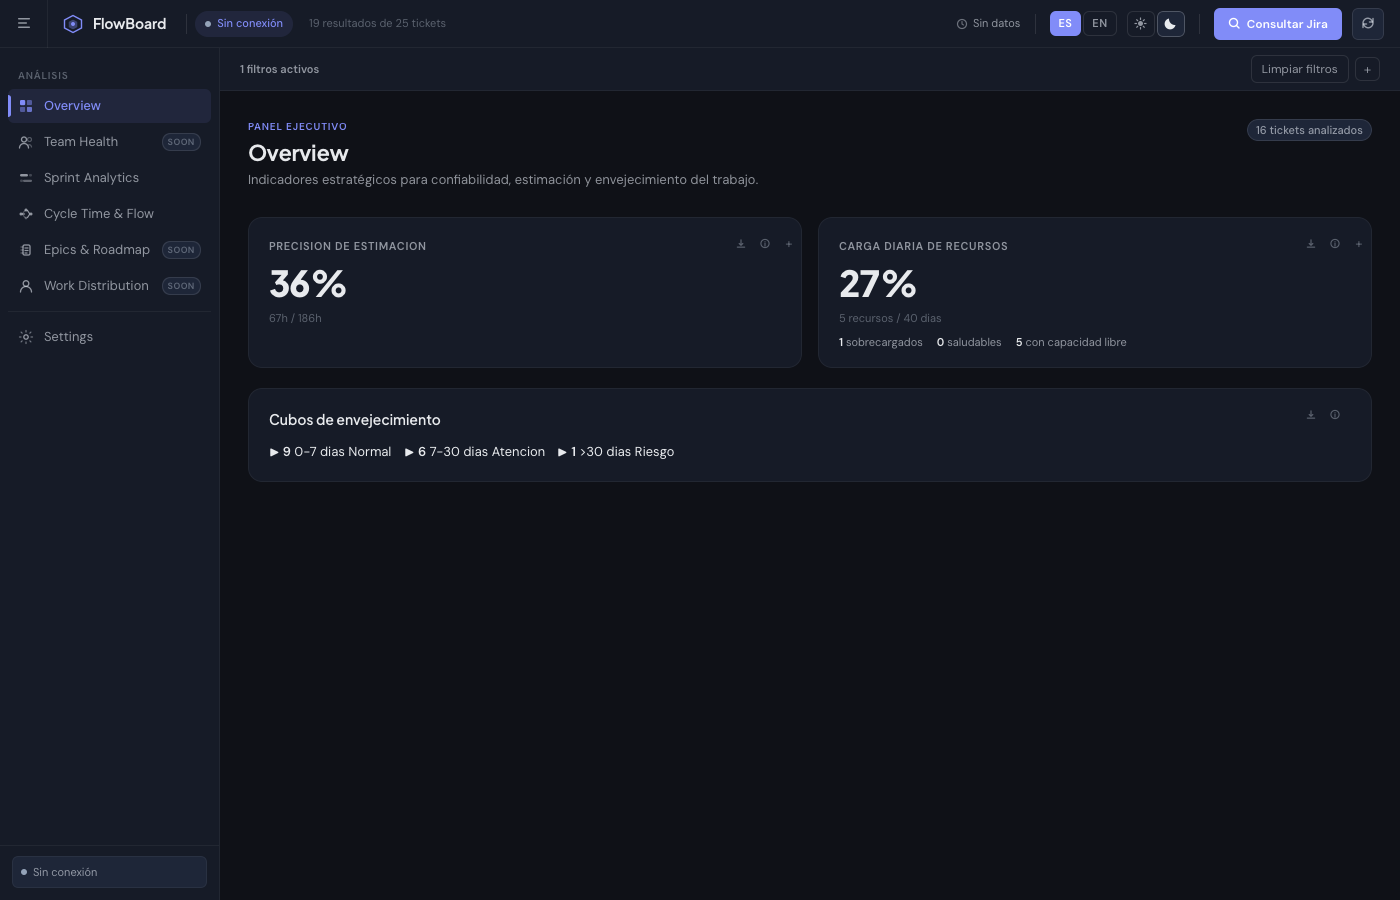
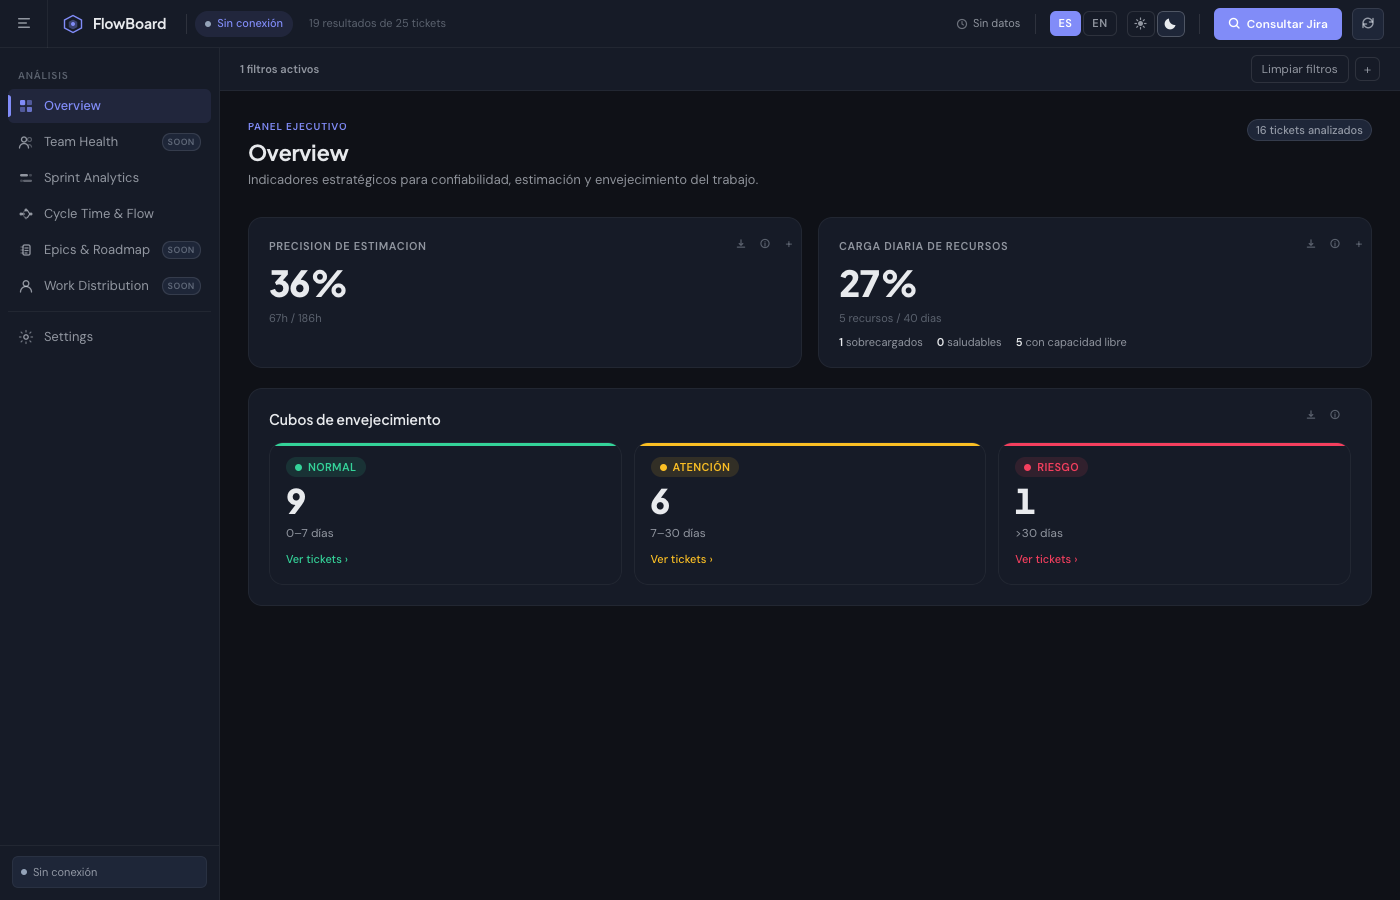
Rediseñar cubos de envejecimiento como tarjetas por severidad
Antes eran <details> sin estilo (triángulos por defecto en línea).
Ahora son tarjetas con color por severidad y lista expandible.

- app.js: cada bucket lleva severity/period/tag (label se conserva para
  IDs de estado, export y aria); render como tarjeta con número grande,
  etiqueta de severidad y CTA "Ver tickets"; textos bilingües
- styles.css: tarjetas con barra de color superior (verde Normal /
  ámbar Atención / rojo Riesgo), tag con punto, contador grande, chevron
  que rota al abrir, paginador estilizado
- issue-detail-item: layout de dos líneas (ticket + título / responsable)
  con días-abierto alineado a la derecha
- Capturas del README regeneradas

diff --git a/styles.css b/styles.css
@@ -1221,12 +1221,166 @@ html.sidebar-collapsed .jira-conn-label { opacity: 0; }
   margin-top: 3px;
 }
 
-/* Aging buckets */
+/* Aging buckets — tarjetas con color por severidad */
 .bucket-grid {
-  display: flex;
-  flex-wrap: wrap;
+  display: grid;
+  grid-template-columns: repeat(auto-fit, minmax(180px, 1fr));
   gap: 12px;
   margin-top: 12px;
+  align-items: start;
+}
+
+.bucket {
+  --bucket-color: var(--text-secondary);
+  --bucket-bg: var(--surface-overlay);
+  position: relative;
+  background: var(--surface-raised);
+  border: 1px solid var(--border-subtle);
+  border-radius: var(--r-lg);
+  overflow: hidden;
+  transition: border-color 120ms, box-shadow 120ms;
+}
+.bucket::before {
+  content: "";
+  position: absolute;
+  top: 0;
+  left: 0;
+  right: 0;
+  height: 3px;
+  background: var(--bucket-color);
+}
+.bucket:hover { border-color: var(--border-default); box-shadow: var(--shadow-xs); }
+.bucket[open] { border-color: color-mix(in srgb, var(--bucket-color) 40%, var(--border-default)); }
+
+.bucket-normal { --bucket-color: var(--data-positive); --bucket-bg: var(--data-positive-bg); }
+.bucket-warning { --bucket-color: var(--data-warning);  --bucket-bg: var(--data-warning-bg); }
+.bucket-risk    { --bucket-color: var(--data-critical); --bucket-bg: var(--data-critical-bg); }
+
+.bucket > summary {
+  list-style: none;
+  cursor: pointer;
+  padding: 14px 16px 16px;
+  display: flex;
+  flex-direction: column;
+  gap: 6px;
+}
+.bucket > summary::-webkit-details-marker { display: none; }
+.bucket > summary:focus-visible { outline: 2px solid var(--focus); outline-offset: -2px; }
+
+.bucket-tag {
+  display: inline-flex;
+  align-items: center;
+  gap: 6px;
+  align-self: flex-start;
+  padding: 2px 9px;
+  border-radius: var(--r-pill);
+  background: var(--bucket-bg);
+  color: var(--bucket-color);
+  font-size: 11px;
+  font-weight: 600;
+  text-transform: uppercase;
+  letter-spacing: 0.03em;
+}
+.bucket-dot { width: 7px; height: 7px; border-radius: 50%; background: var(--bucket-color); }
+
+.bucket-count {
+  font-family: "Plus Jakarta Sans", sans-serif;
+  font-size: 34px;
+  font-weight: 800;
+  line-height: 1;
+  color: var(--text-primary);
+  font-variant-numeric: tabular-nums;
+}
+.bucket-period { font-size: 12px; color: var(--text-secondary); }
+
+.bucket-cta {
+  display: inline-flex;
+  align-items: center;
+  gap: 3px;
+  margin-top: 4px;
+  font-size: 11px;
+  font-weight: 500;
+  color: var(--bucket-color);
+}
+.bucket-cta i { font-style: normal; transition: transform 150ms; }
+.bucket[open] .bucket-cta i { transform: rotate(90deg); }
+
+.bucket-detail {
+  padding: 4px 12px 12px;
+  border-top: 1px solid var(--border-subtle);
+  background: var(--canvas);
+}
+
+.bucket-pager {
+  display: flex;
+  align-items: center;
+  justify-content: space-between;
+  gap: 10px;
+  padding: 8px 4px 2px;
+  font-size: 11px;
+  color: var(--text-tertiary);
+}
+.bucket-pager-actions { display: inline-flex; align-items: center; gap: 8px; }
+.bucket-pager-actions strong { color: var(--text-secondary); font-variant-numeric: tabular-nums; }
+.bucket-page-button {
+  padding: 3px 10px;
+  background: transparent;
+  border: 1px solid var(--border-default);
+  border-radius: var(--r-sm);
+  font-size: 11px;
+  color: var(--text-secondary);
+  cursor: pointer;
+  transition: all 100ms;
+}
+.bucket-page-button:hover:not(:disabled) { border-color: var(--brand-muted); color: var(--brand); }
+.bucket-page-button:disabled { opacity: 0.4; cursor: default; }
+
+/* Item de ticket dentro del detalle del cubo */
+.issue-detail-item {
+  display: grid;
+  grid-template-columns: minmax(0, 1fr) auto;
+  column-gap: 10px;
+  row-gap: 1px;
+  padding: 7px 4px;
+  border-bottom: 1px solid var(--border-subtle);
+}
+.issue-detail-item:last-child { border-bottom: none; }
+.issue-detail-item > span {
+  grid-column: 1;
+  grid-row: 1;
+  min-width: 0;
+  overflow: hidden;
+  text-overflow: ellipsis;
+  white-space: nowrap;
+  font-size: 12px;
+  color: var(--text-secondary);
+}
+.issue-detail-item a { color: inherit; text-decoration: none; }
+.issue-detail-item strong {
+  margin-right: 6px;
+  color: var(--brand);
+  font-family: "JetBrains Mono", monospace;
+  font-weight: 500;
+}
+.issue-detail-item a:hover strong { color: var(--brand-hover); }
+.issue-detail-item > small {
+  grid-column: 2;
+  grid-row: 1;
+  justify-self: end;
+  white-space: nowrap;
+  font-size: 11px;
+  color: var(--text-tertiary);
+}
+.issue-detail-item > em {
+  grid-column: 1 / -1;
+  grid-row: 2;
+  min-width: 0;
+  overflow: hidden;
+  text-overflow: ellipsis;
+  white-space: nowrap;
+  font-style: normal;
+  font-size: 11px;
+  color: var(--text-tertiary);
 }
 
 /* Heatmap */

diff --git a/app.js b/app.js
@@ -2797,16 +2797,22 @@ function renderAgingBuckets(buckets) {
     const visibleItems = bucket.items.slice(firstItem, firstItem + AGING_BUCKET_PAGE_SIZE);
     const openAttribute = state.openAgingBuckets.has(bucketId) ? " open" : "";
 
+    const severity = bucket.severity || "normal";
+    const ctaText = state.language === "en" ? "View tickets" : "Ver tickets";
+    const openLabel = state.language === "en" ? "days open" : "días abierto";
+
     return `
-      <details class="bucket" data-aging-bucket-id="${escapeHtml(bucketId)}"${openAttribute}>
+      <details class="bucket bucket-${escapeHtml(severity)}" data-aging-bucket-id="${escapeHtml(bucketId)}"${openAttribute}>
         <summary>
-          <strong>${bucket.count}</strong>
-          <span title="${escapeHtml(bucket.label)}">${escapeHtml(bucket.label)}</span>
+          <span class="bucket-tag"><span class="bucket-dot"></span>${escapeHtml(bucket.tag || bucket.label)}</span>
+          <strong class="bucket-count">${bucket.count}</strong>
+          <span class="bucket-period">${escapeHtml(bucket.period || bucket.label)}</span>
+          <span class="bucket-cta">${escapeHtml(ctaText)}<i aria-hidden="true">›</i></span>
         </summary>
         <div class="bucket-detail">
           ${visibleItems.length
-            ? visibleItems.map((issue) => renderIssueDetailItem(issue, `${getAgingDays(issue)} dias abierto`)).join("")
-            : `<div class="metric-empty">Sin tickets en este rango.</div>`}
+            ? visibleItems.map((issue) => renderIssueDetailItem(issue, `${getAgingDays(issue)} ${openLabel}`)).join("")
+            : `<div class="metric-empty">${escapeHtml(state.language === "en" ? "No tickets in this range." : "Sin tickets en este rango.")}</div>`}
           ${renderAgingBucketPager(bucket, bucketId, page, totalPages)}
         </div>
       </details>
@@ -3413,10 +3419,12 @@ function getAgingDays(issue) {
 }
 
 function getAgingBuckets(issues) {
+  const isEn = state.language === "en";
+  // `label` se mantiene para IDs de estado, export y aria; period/tag/severity son para el diseño en tarjetas.
   const buckets = [
-    { label: "0-7 dias Normal", count: 0, items: [] },
-    { label: "7-30 dias Atencion", count: 0, items: [] },
-    { label: ">30 dias Riesgo", count: 0, items: [] }
+    { label: "0-7 dias Normal", severity: "normal", period: isEn ? "0–7 days" : "0–7 días", tag: isEn ? "Normal" : "Normal", count: 0, items: [] },
+    { label: "7-30 dias Atencion", severity: "warning", period: isEn ? "7–30 days" : "7–30 días", tag: isEn ? "Attention" : "Atención", count: 0, items: [] },
+    { label: ">30 dias Riesgo", severity: "risk", period: isEn ? ">30 days" : ">30 días", tag: isEn ? "Risk" : "Riesgo", count: 0, items: [] }
   ];
 
   issues.forEach((issue) => {